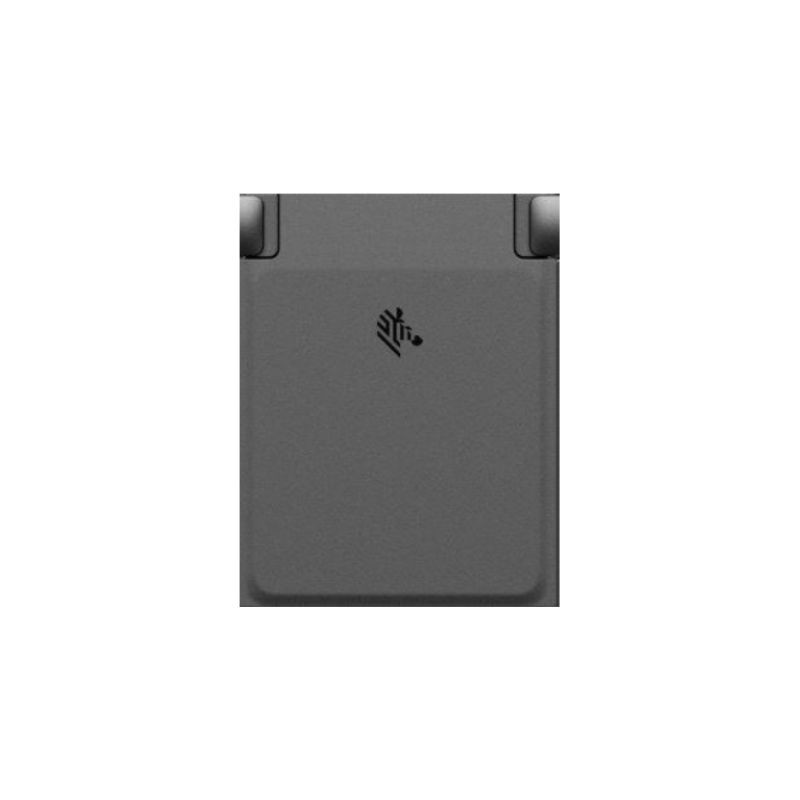
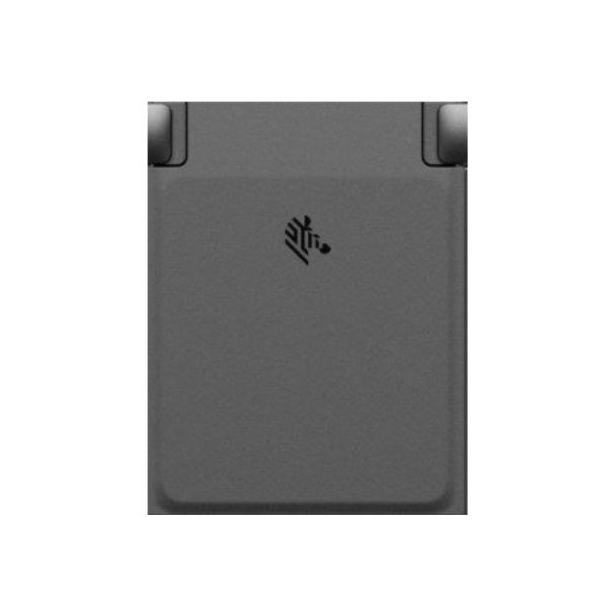
fix: Comment out TC701 OneCare plans, crop battery image, add accessory images

Changed region(s): [[0.2159, 0.1542, 0.7711, 0.8636], [0.4627, 0.3393, 0.5552, 0.4318]]

diff --git a/src/data/products.ts b/src/data/products.ts
@@ -10433,10 +10433,10 @@ Wersja enterprise (lżejsza, upadki 2,4 m, tańsza): Zebra TC501. Szczegółowa 
       { name: 'Instrukcja obsługi (PL)', type: 'manual', url: 'https://www.serwis-zebry.pl/instrukcje/zebra-tc701/instrukcja-po-polsku', size: 'Online' },
       { name: 'Karta katalogowa (EN)', type: 'datasheet', url: 'https://www.zebra.com/content/dam/zebra_dam/en/spec-sheets/tc701-spec-sheet-en-us.pdf', size: 'PDF' },
     ],
-    servicePlans: [
-      { name: 'Zebra OneCare Essential — 3 lata', partNumber: 'Z1AE-TC701X-3C00', duration: '3 lata', priceNetto: 0 },
-      { name: 'Zebra OneCare Essential — 5 lat', partNumber: 'Z1AE-TC701X-5C00', duration: '5 lat', priceNetto: 0 },
-    ],
+    // servicePlans: [ // TODO: uncomment when available in Ingram
+    //   { name: 'Zebra OneCare Essential — 3 lata', partNumber: 'Z1AE-TC701X-3C00', duration: '3 lata' },
+    //   { name: 'Zebra OneCare Essential — 5 lat', partNumber: 'Z1AE-TC701X-5C00', duration: '5 lat' },
+    // ],
     createdAt: '2026-02-17',
   },
   {
